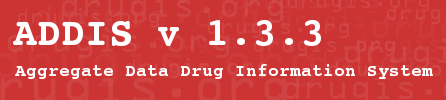
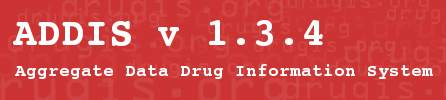
changed to new snapshot version

Changed region(s): [[0.6704, 0.18, 0.7287, 0.48]]

diff --git a/src/test/java/org/drugis/addis/presentation/AllSummariesDefinedModelTest.java b/src/test/java/org/drugis/addis/presentation/AllSummariesDefinedModelTest.java
@@ -1,3 +1,25 @@
+/*
+ * This file is part of ADDIS (Aggregate Data Drug Information System).
+ * ADDIS is distributed from http://drugis.org/.
+ * Copyright (C) 2009 Gert van Valkenhoef, Tommi Tervonen.
+ * Copyright (C) 2010 Gert van Valkenhoef, Tommi Tervonen, 
+ * Tijs Zwinkels, Maarten Jacobs, Hanno Koeslag, Florin Schimbinschi, 
+ * Ahmad Kamal, Daniel Reid.
+ *
+ * This program is free software: you can redistribute it and/or modify
+ * it under the terms of the GNU General Public License as published by
+ * the Free Software Foundation, either version 3 of the License, or
+ * (at your option) any later version.
+ *
+ * This program is distributed in the hope that it will be useful,
+ * but WITHOUT ANY WARRANTY; without even the implied warranty of
+ * MERCHANTABILITY or FITNESS FOR A PARTICULAR PURPOSE.  See the
+ * GNU General Public License for more details.
+ *
+ * You should have received a copy of the GNU General Public License
+ * along with this program.  If not, see <http://www.gnu.org/licenses/>.
+ */
+
 package org.drugis.addis.presentation;
 
 import static org.junit.Assert.assertEquals;

diff --git a/src/main/java/org/drugis/addis/presentation/AllSummariesDefinedModel.java b/src/main/java/org/drugis/addis/presentation/AllSummariesDefinedModel.java
@@ -1,3 +1,25 @@
+/*
+ * This file is part of ADDIS (Aggregate Data Drug Information System).
+ * ADDIS is distributed from http://drugis.org/.
+ * Copyright (C) 2009 Gert van Valkenhoef, Tommi Tervonen.
+ * Copyright (C) 2010 Gert van Valkenhoef, Tommi Tervonen, 
+ * Tijs Zwinkels, Maarten Jacobs, Hanno Koeslag, Florin Schimbinschi, 
+ * Ahmad Kamal, Daniel Reid.
+ *
+ * This program is free software: you can redistribute it and/or modify
+ * it under the terms of the GNU General Public License as published by
+ * the Free Software Foundation, either version 3 of the License, or
+ * (at your option) any later version.
+ *
+ * This program is distributed in the hope that it will be useful,
+ * but WITHOUT ANY WARRANTY; without even the implied warranty of
+ * MERCHANTABILITY or FITNESS FOR A PARTICULAR PURPOSE.  See the
+ * GNU General Public License for more details.
+ *
+ * You should have received a copy of the GNU General Public License
+ * along with this program.  If not, see <http://www.gnu.org/licenses/>.
+ */
+
 package org.drugis.addis.presentation;
 
 import java.beans.PropertyChangeEvent;

diff --git a/src/main/java/org/drugis/addis/presentation/ConvergenceDiagnosticTableModel.java b/src/main/java/org/drugis/addis/presentation/ConvergenceDiagnosticTableModel.java
@@ -1,3 +1,25 @@
+/*
+ * This file is part of ADDIS (Aggregate Data Drug Information System).
+ * ADDIS is distributed from http://drugis.org/.
+ * Copyright (C) 2009 Gert van Valkenhoef, Tommi Tervonen.
+ * Copyright (C) 2010 Gert van Valkenhoef, Tommi Tervonen, 
+ * Tijs Zwinkels, Maarten Jacobs, Hanno Koeslag, Florin Schimbinschi, 
+ * Ahmad Kamal, Daniel Reid.
+ *
+ * This program is free software: you can redistribute it and/or modify
+ * it under the terms of the GNU General Public License as published by
+ * the Free Software Foundation, either version 3 of the License, or
+ * (at your option) any later version.
+ *
+ * This program is distributed in the hope that it will be useful,
+ * but WITHOUT ANY WARRANTY; without even the implied warranty of
+ * MERCHANTABILITY or FITNESS FOR A PARTICULAR PURPOSE.  See the
+ * GNU General Public License for more details.
+ *
+ * You should have received a copy of the GNU General Public License
+ * along with this program.  If not, see <http://www.gnu.org/licenses/>.
+ */
+
 package org.drugis.addis.presentation;
 
 import java.beans.PropertyChangeEvent;

diff --git a/src/main/java/org/drugis/addis/presentation/NetworkVarianceTableModel.java b/src/main/java/org/drugis/addis/presentation/NetworkVarianceTableModel.java
@@ -1,3 +1,25 @@
+/*
+ * This file is part of ADDIS (Aggregate Data Drug Information System).
+ * ADDIS is distributed from http://drugis.org/.
+ * Copyright (C) 2009 Gert van Valkenhoef, Tommi Tervonen.
+ * Copyright (C) 2010 Gert van Valkenhoef, Tommi Tervonen, 
+ * Tijs Zwinkels, Maarten Jacobs, Hanno Koeslag, Florin Schimbinschi, 
+ * Ahmad Kamal, Daniel Reid.
+ *
+ * This program is free software: you can redistribute it and/or modify
+ * it under the terms of the GNU General Public License as published by
+ * the Free Software Foundation, either version 3 of the License, or
+ * (at your option) any later version.
+ *
+ * This program is distributed in the hope that it will be useful,
+ * but WITHOUT ANY WARRANTY; without even the implied warranty of
+ * MERCHANTABILITY or FITNESS FOR A PARTICULAR PURPOSE.  See the
+ * GNU General Public License for more details.
+ *
+ * You should have received a copy of the GNU General Public License
+ * along with this program.  If not, see <http://www.gnu.org/licenses/>.
+ */
+
 package org.drugis.addis.presentation;
 
 import java.beans.PropertyChangeEvent;

diff --git a/src/main/java/org/drugis/addis/util/comparator/CriteriaComparator.java b/src/main/java/org/drugis/addis/util/comparator/CriteriaComparator.java
@@ -1,3 +1,25 @@
+/*
+ * This file is part of ADDIS (Aggregate Data Drug Information System).
+ * ADDIS is distributed from http://drugis.org/.
+ * Copyright (C) 2009 Gert van Valkenhoef, Tommi Tervonen.
+ * Copyright (C) 2010 Gert van Valkenhoef, Tommi Tervonen, 
+ * Tijs Zwinkels, Maarten Jacobs, Hanno Koeslag, Florin Schimbinschi, 
+ * Ahmad Kamal, Daniel Reid.
+ *
+ * This program is free software: you can redistribute it and/or modify
+ * it under the terms of the GNU General Public License as published by
+ * the Free Software Foundation, either version 3 of the License, or
+ * (at your option) any later version.
+ *
+ * This program is distributed in the hope that it will be useful,
+ * but WITHOUT ANY WARRANTY; without even the implied warranty of
+ * MERCHANTABILITY or FITNESS FOR A PARTICULAR PURPOSE.  See the
+ * GNU General Public License for more details.
+ *
+ * You should have received a copy of the GNU General Public License
+ * along with this program.  If not, see <http://www.gnu.org/licenses/>.
+ */
+
 package org.drugis.addis.util.comparator;
 
 import java.util.Comparator;

diff --git a/src/main/java/org/drugis/addis/gui/components/AddisScrollPane.java b/src/main/java/org/drugis/addis/gui/components/AddisScrollPane.java
@@ -1,3 +1,25 @@
+/*
+ * This file is part of ADDIS (Aggregate Data Drug Information System).
+ * ADDIS is distributed from http://drugis.org/.
+ * Copyright (C) 2009 Gert van Valkenhoef, Tommi Tervonen.
+ * Copyright (C) 2010 Gert van Valkenhoef, Tommi Tervonen, 
+ * Tijs Zwinkels, Maarten Jacobs, Hanno Koeslag, Florin Schimbinschi, 
+ * Ahmad Kamal, Daniel Reid.
+ *
+ * This program is free software: you can redistribute it and/or modify
+ * it under the terms of the GNU General Public License as published by
+ * the Free Software Foundation, either version 3 of the License, or
+ * (at your option) any later version.
+ *
+ * This program is distributed in the hope that it will be useful,
+ * but WITHOUT ANY WARRANTY; without even the implied warranty of
+ * MERCHANTABILITY or FITNESS FOR A PARTICULAR PURPOSE.  See the
+ * GNU General Public License for more details.
+ *
+ * You should have received a copy of the GNU General Public License
+ * along with this program.  If not, see <http://www.gnu.org/licenses/>.
+ */
+
 package org.drugis.addis.gui.components;
 
 import java.awt.Component;

diff --git a/src/main/java/org/drugis/addis/gui/components/AddisTabbedPane.java b/src/main/java/org/drugis/addis/gui/components/AddisTabbedPane.java
@@ -1,3 +1,25 @@
+/*
+ * This file is part of ADDIS (Aggregate Data Drug Information System).
+ * ADDIS is distributed from http://drugis.org/.
+ * Copyright (C) 2009 Gert van Valkenhoef, Tommi Tervonen.
+ * Copyright (C) 2010 Gert van Valkenhoef, Tommi Tervonen, 
+ * Tijs Zwinkels, Maarten Jacobs, Hanno Koeslag, Florin Schimbinschi, 
+ * Ahmad Kamal, Daniel Reid.
+ *
+ * This program is free software: you can redistribute it and/or modify
+ * it under the terms of the GNU General Public License as published by
+ * the Free Software Foundation, either version 3 of the License, or
+ * (at your option) any later version.
+ *
+ * This program is distributed in the hope that it will be useful,
+ * but WITHOUT ANY WARRANTY; without even the implied warranty of
+ * MERCHANTABILITY or FITNESS FOR A PARTICULAR PURPOSE.  See the
+ * GNU General Public License for more details.
+ *
+ * You should have received a copy of the GNU General Public License
+ * along with this program.  If not, see <http://www.gnu.org/licenses/>.
+ */
+
 package org.drugis.addis.gui.components;
 
 import java.awt.Component;

diff --git a/src/main/java/org/drugis/addis/presentation/SummaryCellRenderer.java b/src/main/java/org/drugis/addis/presentation/SummaryCellRenderer.java
@@ -1,3 +1,25 @@
+/*
+ * This file is part of ADDIS (Aggregate Data Drug Information System).
+ * ADDIS is distributed from http://drugis.org/.
+ * Copyright (C) 2009 Gert van Valkenhoef, Tommi Tervonen.
+ * Copyright (C) 2010 Gert van Valkenhoef, Tommi Tervonen, 
+ * Tijs Zwinkels, Maarten Jacobs, Hanno Koeslag, Florin Schimbinschi, 
+ * Ahmad Kamal, Daniel Reid.
+ *
+ * This program is free software: you can redistribute it and/or modify
+ * it under the terms of the GNU General Public License as published by
+ * the Free Software Foundation, either version 3 of the License, or
+ * (at your option) any later version.
+ *
+ * This program is distributed in the hope that it will be useful,
+ * but WITHOUT ANY WARRANTY; without even the implied warranty of
+ * MERCHANTABILITY or FITNESS FOR A PARTICULAR PURPOSE.  See the
+ * GNU General Public License for more details.
+ *
+ * You should have received a copy of the GNU General Public License
+ * along with this program.  If not, see <http://www.gnu.org/licenses/>.
+ */
+
 package org.drugis.addis.presentation;
 
 import java.awt.Component;

diff --git a/src/main/java/org/drugis/addis/gui/ConvergencePlotsDialog.java b/src/main/java/org/drugis/addis/gui/ConvergencePlotsDialog.java
@@ -1,3 +1,25 @@
+/*
+ * This file is part of ADDIS (Aggregate Data Drug Information System).
+ * ADDIS is distributed from http://drugis.org/.
+ * Copyright (C) 2009 Gert van Valkenhoef, Tommi Tervonen.
+ * Copyright (C) 2010 Gert van Valkenhoef, Tommi Tervonen, 
+ * Tijs Zwinkels, Maarten Jacobs, Hanno Koeslag, Florin Schimbinschi, 
+ * Ahmad Kamal, Daniel Reid.
+ *
+ * This program is free software: you can redistribute it and/or modify
+ * it under the terms of the GNU General Public License as published by
+ * the Free Software Foundation, either version 3 of the License, or
+ * (at your option) any later version.
+ *
+ * This program is distributed in the hope that it will be useful,
+ * but WITHOUT ANY WARRANTY; without even the implied warranty of
+ * MERCHANTABILITY or FITNESS FOR A PARTICULAR PURPOSE.  See the
+ * GNU General Public License for more details.
+ *
+ * You should have received a copy of the GNU General Public License
+ * along with this program.  If not, see <http://www.gnu.org/licenses/>.
+ */
+
 package org.drugis.addis.gui;
 
 import java.awt.Color;
